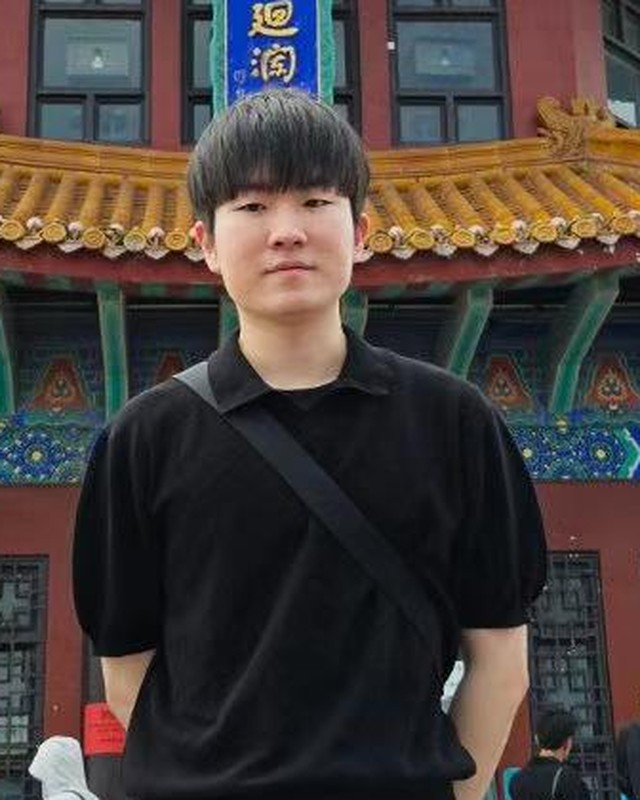
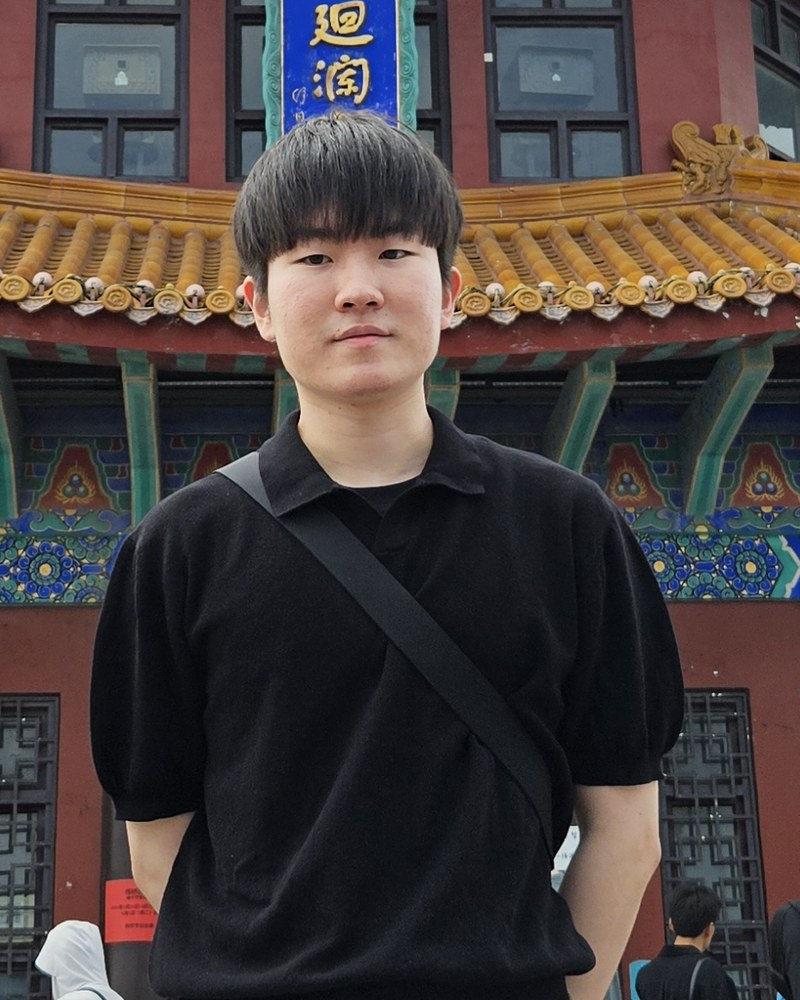
People: high-resolution photo for Jun-Hyeok Heo
Claude-Session: https://claude.ai/code/session_019DkR5rkkzJ6eXb763qS34b

diff --git a/_source/pages/People.dc.html b/_source/pages/People.dc.html
@@ -180,7 +180,7 @@ class Component extends DCLogic {
 renderVals() {
 const P = {
 jwkim: '/_blob/783912d736126c95b5de85192345e40a',
-hjh0721: '/_blob/f0817c7b7ef9e9e5f58d3547a98d51f5'
+hjh0721: '/_blob/09bf4bf43c3dff5297d26a142de54c83'
 };
 const bg = (id) => P[id] ? 'url(' + P[id] + ')' : 'none';
 const s = (name, ini, bs, email) => ({ name, ini, bs, email: email + '@mcl.korea.ac.kr', bg: bg(email) });

diff --git a/_source/build.py b/_source/build.py
@@ -16,7 +16,7 @@ PAGES = {  # source -> (output file, page title)
 BLOBS = {
     '/_blob/eb78a1e16175a13c8873a8f7041376aa': 'images/cskim.jpg',
     '/_blob/783912d736126c95b5de85192345e40a': 'images/people/jiwon_kim.jpg',
-    '/_blob/f0817c7b7ef9e9e5f58d3547a98d51f5': 'images/people/junhyeok_heo.jpg',
+    '/_blob/09bf4bf43c3dff5297d26a142de54c83': 'images/people/junhyeok_heo.jpg',
     '/_blob/5583ebb25b09567b8a8654c6176e422a': 'images/card_order.svg',
     '/_blob/e94a593d9b08112bc906aab7616e7bae': 'images/card_compress.svg',
     '/_blob/0687550905e7399cd1c8c2c51ee1ffcc': 'images/card_vision.svg',
